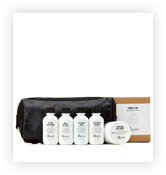
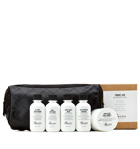
Стилизация барбершопа завершена

Changed region(s): [[0.0, 0.5369, 1.0, 0.8859]]

diff --git a/css/style.css b/css/style.css
@@ -347,6 +347,7 @@ input[type="radio"] + label:hover {
   width: 78px;
   padding: 12px 0;
   text-align: center;
+  text-decoration: none;
   background-color: #000000;
   color: #ffffff;
 }
@@ -503,47 +504,92 @@ input[type="radio"] + label:hover {
 .image-galery{
   float: left;
   width: 470px;  
+  margin: 0;
   margin-bottom: 49px;
+}
+
+.image-galery img:nth-child(1) {
+  margin-bottom: 20px;
+}
+
+.image-galery img:nth-child(2),
+.image-galery img:nth-child(3) {
+  margin-right: 20px;
 }
 
 .product-description {
   float: right;
-  width: 400px;  
-  padding-left: 10px;
-
-  background-color: red;
-}
-
-.product-info {
-
+  width: 390px;  
+  padding: 0 10px;
+  padding-top: 20px;
 }
 
 .product-info ul { 
   float: left;
-  width: 390px;
+  width: 380px;
   margin: 0;
   padding: 0;
+  margin-bottom: 40px;
   font-size: 14px;
   line-height: 24px;
   list-style: none;
-
-  background-color: white;
-
 }
+
 .p-stock { 
   float: left;
-  width: 90px; 
- 
-  background-color: yellow;
+  width: 90px;
 }
 
 .p-model {   
   float: right;
-  width: 140px; 
-
-  background-color: green;
+  width: 140px;
+  color: #aeaeae;
+  text-align: right; 
 }
 
+.product-text {
+  margin: 0;
+  margin-bottom: 36px;
+  padding: 0;
+  font-size: 14px;
+  line-height: 24px;
+}
+
+.buy {
+  margin: 0;
+  margin-bottom: 64px;
+  padding: 0;
+}
+
+.composition p {
+  font-size: 24px;
+  line-height: 30px;
+  margin-bottom: 40px;
+}
+
+.composition ul {
+  padding: 0;  
+  line-height: 24px;
+  list-style: none;
+}
+
+.composition li {
+  padding-left: 20px;
+  position: relative;
+}
+
+.composition li::after {
+  content: "";
+  position: absolute;
+  left: 0;
+  top: 50%;
+  display: block;
+  width: 7px;
+  height: 7px;
+  margin-top: -3px;
+  background-color: #000000;
+  transform: rotate(45deg);
+}
 
 
 

diff --git a/catalog-item.html b/catalog-item.html
@@ -88,12 +88,12 @@
             шампунь. Набор также может стать отличным подарком.            	
             </p>
           </section>
-          <section class="buy">
-            <p class="price">2900 РУБ.</p>
+          <section class="button-group buy clearfix">
+            <span>2900 РУБ.</span>
       	    <a href="#">Купить</a>
           </section>
           <section class="composition">
-            <h2>В набор входят:</h2>
+            <p>В набор входят:</p>
             <ul>
               <li>Средство для умывания (50 мл);</li>
               <li>Увлажняющий крем (50 мл);</li>

diff --git a/catalog.html b/catalog.html
@@ -232,7 +232,7 @@
       </div>      
       <div class="paginator">
         <a class="num" href="#">1</a>
-        <a class="num" href="#" class="active">2</a>
+        <a class="num active" href="#">2</a>
         <a class="num" href="#">3</a>
         <a class="num" href="#">4</a>                 
       </div>
